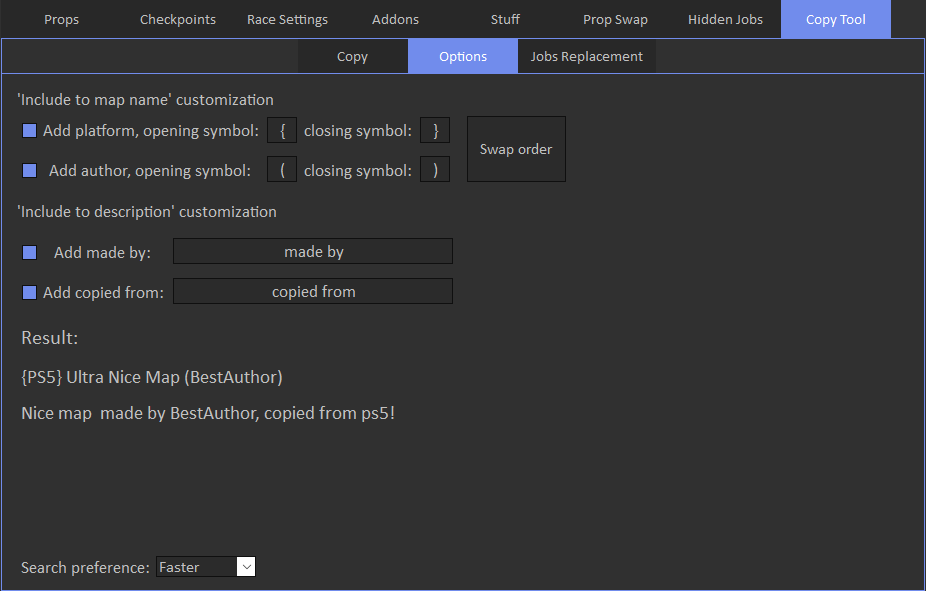
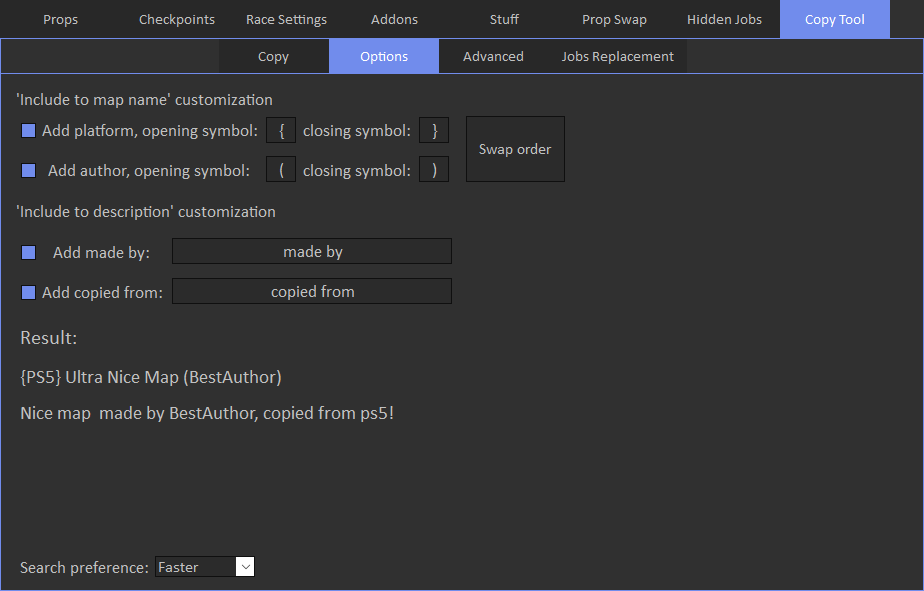
add new copy tool tab

diff --git a/docs/copy-tool/advanced/overview.md b/docs/copy-tool/advanced/overview.md
@@ -1,0 +1,33 @@
+# Advanced
+
+Advanced tab allows to upload custom map files.
+
+![Img5](../../assets/images/copy-tool/img05.png)
+
+First you need to select map json file. You can get it by activating 'Save map file' checkbox on [Copy](../../../copy-tool/copy/overview) tab and loading a map.
+'map.json' file will be saved in the same directory with mod tool.
+
+You can update map title or description in the appropriate fields and it will be included when copying or updating map.
+You don't have to re-select map file after modifying it with some editor.
+
+You can also load map image from local file or from URL.
+
+'Create and Save' will create map based on selected json file and will put it in the Saved jobs.
+
+'Create and Publish' will create map based on selected json file and will put it in the Published jobs.
+
+'Update Map by Link' requires 'Existing map link' field to be set. It will update map by specific link, and it will not publish it, if you map is currently is in Saved jobs.
+
+'Delete/Restore Map by Link' also requires 'Existing map link' field to be set. You can restore maps that were deleted not long ago.
+
+**Note**: Create and Update options affect copy limit. Delete and Restore do not.
+
+**Note**: Update/Delete/Restore options work only with maps that belong to you, it means you cannot modify maps from other creators.
+
+If 'Load after copying' checkbox is not set, you can copy maps from story mode, no need to load in creator.
+
+In case map was failed to copy, you'll see window that contains error information in XML format:
+
+![Img6](../../assets/images/copy-tool/img06.png)
+
+You can get link of currently loaded map in creator by pressing 'Copy job link' on [Map Options](../../../race-settings/map-options/overview) tab.
